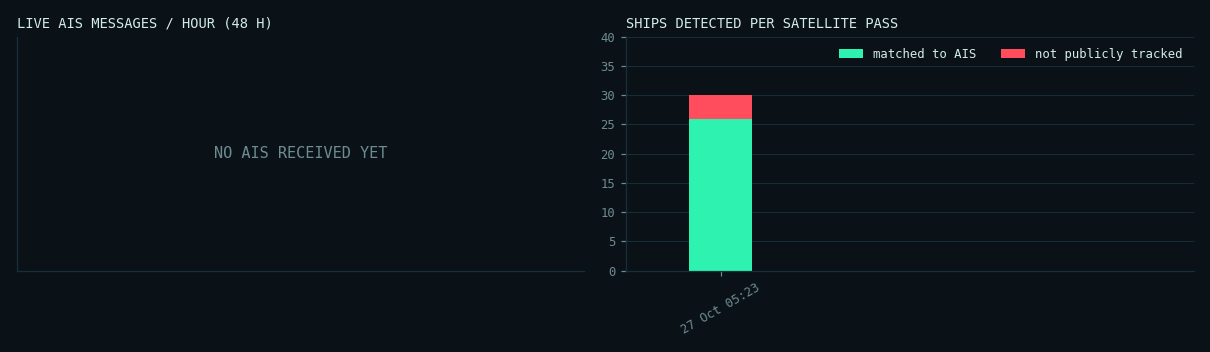
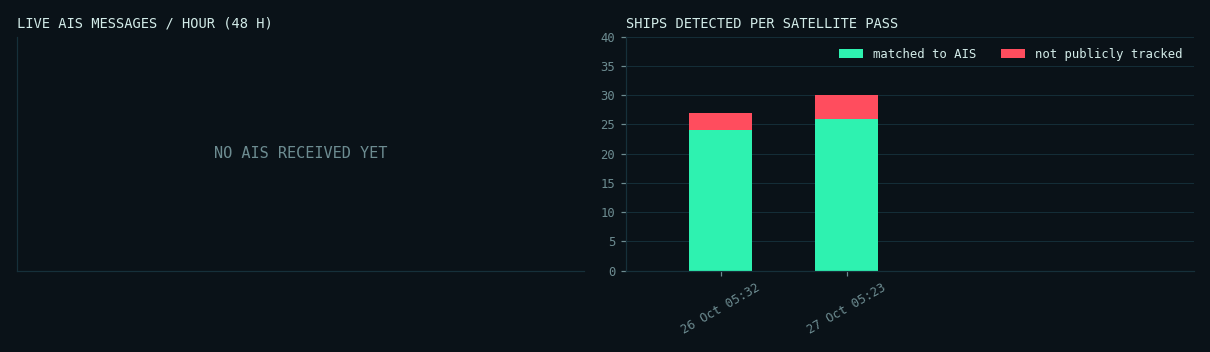
Second Oresund pass (26 Oct) and repeat-location check
24 ships matched, 3 candidates. Candidates recurring at the same spot on another pass are
tagged and downgraded, leaving one high-confidence candidate across both passes.

diff --git a/docs/denmark/index.html b/docs/denmark/index.html
@@ -82,7 +82,7 @@ footer{border-top:1px solid var(--line);padding:18px 0 28px;font:12px/1.6 var(--
   <div><div class="kicker">SAR &times; AIS &middot; MARITIME AWARENESS</div><div class="title">DARK VESSEL <b>DETECTION</b></div></div></a>
  <div class="status"><span class="pill"><span class="dot off"></span>AIS FEED <strong>OFFLINE</strong></span>
   <span class="pill">UTC <strong id="utc">--:--:--</strong></span>
-  <span class="pill">UPDATED <strong>02 Nov 06:25</strong></span></div>
+  <span class="pill">UPDATED <strong>02 Nov 06:29</strong></span></div>
 </div><nav class="tabs"><a class="" href="../index.html">OVERVIEW</a><a class="" href="../mumbai/index.html">MUMBAI</a><a class="on" href="../denmark/index.html">DENMARK</a><a class="" href="../demo/index.html">SIMULATION</a></nav></div></header>
 <main class="wrap"><div class="coords">SECTOR // DENMARK &middot; 55.55&ndash;55.85&deg;N &middot; 12.55&ndash;12.95&deg;E</div>
 <h1>Oresund, Copenhagen (Denmark/Sweden)</h1><p class="lede">Validation area. Sentinel-1 images it almost daily and coastal AIS coverage is dense, so the full match between radar and AIS can be shown and checked.</p>
@@ -96,7 +96,7 @@ footer{border-top:1px solid var(--line);padding:18px 0 28px;font:12px/1.6 var(--
 <div class="legend"><span><i style="background:var(--green)"></i>matched to AIS</span><span><i style="background:var(--red)"></i>not tracked &middot; high confidence</span>
 <span><i style="background:var(--amber)"></i>not tracked &middot; low confidence</span><span><i style="background:var(--cyan)"></i>live AIS position</span></div>
 <div id="map" class="map"></div><script>
-const D=[{"lon": 12.574560869565218, "lat": 55.849597826086956, "length_m": 72.681575622935, "score": 0.6554655519501138, "shore_km": 0.14150886088341372, "status": "matched", "reason": "", "confidence": "high", "crop": ""}, {"lon": 12.704759174311928, "lat": 55.82280412844037, "length_m": 364.1071436957287, "score": 0.9904753373251979, "shore_km": 9.407061429825474, "status": "matched", "reason": "", "confidence": "high", "crop": ""}, {"lon": 12.786416463414636, "lat": 55.804669512195126, "length_m": 155.0522474362954, "score": 0.9999646038759398, "shore_km": 4.658419014138412, "status": "matched", "reason": "", "confidence": "high", "crop": ""}, {"lon": 12.837327142857143, "lat": 55.82415, "length_m": 77.74504847444102, "score": 0.6039000555511767, "shore_km": 2.51529122748069, "status": "candidate", "reason": "", "confidence": "high", "crop": "crops/S1-Oresund-20261027_36.png"}, {"lon": 12.88229375, "lat": 55.849146875, "length_m": 53.38783327710226, "score": 0.9899546194309776, "shore_km": 0.9067240720863213, "status": "candidate", "reason": "", "confidence": "high", "crop": "crops/S1-Oresund-20261027_37.png"}, {"lon": 12.604004166666668, "lat": 55.75985, "length_m": 141.84238362073958, "score": 0.6867268898684522, "shore_km": 0.07168283192738693, "status": "matched", "reason": "", "confidence": "high", "crop": ""}, {"lon": 12.605736764705883, "lat": 55.75241323529412, "length_m": 122.11483240811877, "score": 0.9136889320646264, "shore_km": 0.6454382429486746, "status": "candidate", "reason": "", "confidence": "high", "crop": "crops/S1-Oresund-20261027_77.png"}, {"lon": 12.703722571428573, "lat": 55.77917742857143, "length_m": 223.0817648726515, "score": 0.9996320924909895, "shore_km": 5.943270442766068, "status": "matched", "reason": "", "confidence": "high", "crop": ""}, {"lon": 12.902757692307693, "lat": 55.75654230769231, "length_m": 65.46226537445588, "score": 0.7187896049600956, "shore_km": 0.03584141596369347, "status": "matched", "reason": "", "confidence": "high", "crop": ""}, {"lon": 12.589922222222222, "lat": 55.725764814814816, "length_m": 146.45480845096748, "score": 0.9957587025210503, "shore_km": 0.034771280891766385, "status": "matched", "reason": "", "confidence": "high", "crop": ""}, {"lon": 12.598472047244096, "lat": 55.72077913385827, "length_m": 207.62671185403417, "score": 0.609772230082722, "shore_km": 0.14016751439395445, "status": "matched", "reason": "", "confidence": "high", "crop": ""}, {"lon": 12.589218, "lat": 55.712854, "length_m": 90.49550243938293, "score": 0.6486089656085543, "shore_km": 0.043464101114707984, "status": "matched", "reason": "", "confidence": "high", "crop": ""}, {"lon": 12.59024090909091, "lat": 55.71147090909091, "length_m": 162.54265478639104, "score": 1.0, "shore_km": 0.06146752127277559, "status": "matched", "reason": "", "confidence": "high", "crop": ""}, {"lon": 12.597835937500001, "lat": 55.701648437500005, "length_m": 133.31776511703256, "score": 0.9396217092764791, "shore_km": 0.06789309632894441, "status": "matched", "reason": "", "confidence": "high", "crop": ""}, {"lon": 12.60914, "lat": 55.69712, "length_m": 65.36743236464424, "score": 0.7827588237578229, "shore_km": 0.03134240904220623, "status": "matched", "reason": "", "confidence": "high", "crop": ""}, {"lon": 12.668552272727274, "lat": 55.72007840909091, "length_m": 207.26605497726354, "score": 0.6251792307103263, "shore_km": 0.03584141596369347, "status": "matched", "reason": "", "confidence": "high", "crop": ""}, {"lon": 12.5996, "lat": 55.68885, "length_m": 40.00855981470757, "score": 0.7664068666153926, "shore_km": 0.024587008509110237, "status": "matched", "reason": "", "confidence": "high", "crop": ""}, {"lon": 12.595819230769232, "lat": 55.67989871794872, "length_m": 127.62371588738732, "score": 0.9426870407335851, "shore_km": 0.05068741655051085, "status": "matched", "reason": "", "confidence": "high", "crop": ""}, {"lon": 12.594722222222224, "lat": 55.67918888888889, "length_m": 40.64467714079742, "score": 0.7639524834029205, "shore_km": 0.043464101114707984, "status": "matched", "reason": "", "confidence": "high", "crop": ""}, {"lon": 12.610660714285714, "lat": 55.69618571428572, "length_m": 94.51225356515693, "score": 0.9621795096736379, "shore_km": 0.03134240904220623, "status": "matched", "reason": "", "confidence": "high", "crop": ""}, {"lon": 12.649045000000001, "lat": 55.692155, "length_m": 80.63364746000343, "score": 0.8515033668168979, "shore_km": 0.8863693295037299, "status": "matched", "reason": "", "confidence": "high", "crop": ""}, {"lon": 12.630751724137932, "lat": 55.685453448275865, "length_m": 125.00287123881988, "score": 0.93629426700422, "shore_km": 0.043464101114707984, "status": "matched", "reason": "", "confidence": "high", "crop": ""}, {"lon": 12.634987254901962, "lat": 55.677338235294116, "length_m": 276.5478352749318, "score": 0.7686103584091717, "shore_km": 0.024587008509110237, "status": "matched", "reason": "", "confidence": "high", "crop": ""}, {"lon": 12.68766150442478, "lat": 55.69581814159292, "length_m": 176.8074930452176, "score": 0.923202226335388, "shore_km": 2.6834920471942074, "status": "matched", "reason": "", "confidence": "high", "crop": ""}, {"lon": 12.67009054054054, "lat": 55.668979729729735, "length_m": 88.03011624734839, "score": 0.7436265062774421, "shore_km": 1.9785477550990147, "status": "candidate", "reason": "", "confidence": "high", "crop": "crops/S1-Oresund-20261027_250.png"}, {"lon": 12.65826847826087, "lat": 55.63610108695652, "length_m": 174.21377549767067, "score": 0.9833187000337672, "shore_km": 0.043464101114707984, "status": "matched", "reason": "", "confidence": "high", "crop": ""}, {"lon": 12.680683333333334, "lat": 55.610910000000004, "length_m": 74.22790892756812, "score": 0.6314184609397504, "shore_km": 0.03134240904220623, "status": "matched", "reason": "", "confidence": "high", "crop": ""}, {"lon": 12.868352132196163, "lat": 55.60022420042644, "length_m": 299.20726350177785, "score": 0.9999960398718075, "shore_km": 2.8169298200726325, "status": "matched", "reason": "", "confidence": "high", "crop": ""}, {"lon": 12.680875, "lat": 55.59323, "length_m": 95.51211981545671, "score": 0.7585723176580392, "shore_km": 0.03584141596369347, "status": "matched", "reason": "", "confidence": "high", "crop": ""}, {"lon": 12.706387741935485, "lat": 55.56306903225806, "length_m": 301.4640427512081, "score": 0.9999731380181186, "shore_km": 3.1965238712919084, "status": "matched", "reason": "", "confidence": "high", "crop": ""}],LIVE=[],B=[[55.55,12.55],[55.85,12.95]];const m=L.map('map',{zoomSnap:.25}).fitBounds(B);
+const D=[{"lon": 12.574560869565218, "lat": 55.849597826086956, "length_m": 72.681575622935, "score": 0.6554655519501138, "shore_km": 0.14150886088341372, "status": "matched", "reason": "", "confidence": "high", "crop": ""}, {"lon": 12.704759174311928, "lat": 55.82280412844037, "length_m": 364.1071436957287, "score": 0.9904753373251979, "shore_km": 9.407061429825474, "status": "matched", "reason": "", "confidence": "high", "crop": ""}, {"lon": 12.786416463414636, "lat": 55.804669512195126, "length_m": 155.0522474362954, "score": 0.9999646038759398, "shore_km": 4.658419014138412, "status": "matched", "reason": "", "confidence": "high", "crop": ""}, {"lon": 12.837327142857143, "lat": 55.82415, "length_m": 77.74504847444102, "score": 0.6039000555511767, "shore_km": 2.51529122748069, "status": "candidate", "reason": "same_spot_in_another_pass", "confidence": "low", "crop": "crops/S1-Oresund-20261027_36.png"}, {"lon": 12.88229375, "lat": 55.849146875, "length_m": 53.38783327710226, "score": 0.9899546194309776, "shore_km": 0.9067240720863213, "status": "candidate", "reason": "same_spot_in_another_pass", "confidence": "low", "crop": "crops/S1-Oresund-20261027_37.png"}, {"lon": 12.604004166666668, "lat": 55.75985, "length_m": 141.84238362073958, "score": 0.6867268898684522, "shore_km": 0.07168283192738693, "status": "matched", "reason": "", "confidence": "high", "crop": ""}, {"lon": 12.605736764705883, "lat": 55.75241323529412, "length_m": 122.11483240811877, "score": 0.9136889320646264, "shore_km": 0.6454382429486746, "status": "candidate", "reason": "same_spot_in_another_pass", "confidence": "low", "crop": "crops/S1-Oresund-20261027_77.png"}, {"lon": 12.703722571428573, "lat": 55.77917742857143, "length_m": 223.0817648726515, "score": 0.9996320924909895, "shore_km": 5.943270442766068, "status": "matched", "reason": "", "confidence": "high", "crop": ""}, {"lon": 12.902757692307693, "lat": 55.75654230769231, "length_m": 65.46226537445588, "score": 0.7187896049600956, "shore_km": 0.03584141596369347, "status": "matched", "reason": "", "confidence": "high", "crop": ""}, {"lon": 12.589922222222222, "lat": 55.725764814814816, "length_m": 146.45480845096748, "score": 0.9957587025210503, "shore_km": 0.034771280891766385, "status": "matched", "reason": "", "confidence": "high", "crop": ""}, {"lon": 12.598472047244096, "lat": 55.72077913385827, "length_m": 207.62671185403417, "score": 0.609772230082722, "shore_km": 0.14016751439395445, "status": "matched", "reason": "", "confidence": "high", "crop": ""}, {"lon": 12.589218, "lat": 55.712854, "length_m": 90.49550243938293, "score": 0.6486089656085543, "shore_km": 0.043464101114707984, "status": "matched", "reason": "", "confidence": "high", "crop": ""}, {"lon": 12.59024090909091, "lat": 55.71147090909091, "length_m": 162.54265478639104, "score": 1.0, "shore_km": 0.06146752127277559, "status": "matched", "reason": "", "confidence": "high", "crop": ""}, {"lon": 12.597835937500001, "lat": 55.701648437500005, "length_m": 133.31776511703256, "score": 0.9396217092764791, "shore_km": 0.06789309632894441, "status": "matched", "reason": "", "confidence": "high", "crop": ""}, {"lon": 12.60914, "lat": 55.69712, "length_m": 65.36743236464424, "score": 0.7827588237578229, "shore_km": 0.03134240904220623, "status": "matched", "reason": "", "confidence": "high", "crop": ""}, {"lon": 12.668552272727274, "lat": 55.72007840909091, "length_m": 207.26605497726354, "score": 0.6251792307103263, "shore_km": 0.03584141596369347, "status": "matched", "reason": "", "confidence": "high", "crop": ""}, {"lon": 12.5996, "lat": 55.68885, "length_m": 40.00855981470757, "score": 0.7664068666153926, "shore_km": 0.024587008509110237, "status": "matched", "reason": "", "confidence": "high", "crop": ""}, {"lon": 12.595819230769232, "lat": 55.67989871794872, "length_m": 127.62371588738732, "score": 0.9426870407335851, "shore_km": 0.05068741655051085, "status": "matched", "reason": "", "confidence": "high", "crop": ""}, {"lon": 12.594722222222224, "lat": 55.67918888888889, "length_m": 40.64467714079742, "score": 0.7639524834029205, "shore_km": 0.043464101114707984, "status": "matched", "reason": "", "confidence": "high", "crop": ""}, {"lon": 12.610660714285714, "lat": 55.69618571428572, "length_m": 94.51225356515693, "score": 0.9621795096736379, "shore_km": 0.03134240904220623, "status": "matched", "reason": "", "confidence": "high", "crop": ""}, {"lon": 12.649045000000001, "lat": 55.692155, "length_m": 80.63364746000343, "score": 0.8515033668168979, "shore_km": 0.8863693295037299, "status": "matched", "reason": "", "confidence": "high", "crop": ""}, {"lon": 12.630751724137932, "lat": 55.685453448275865, "length_m": 125.00287123881988, "score": 0.93629426700422, "shore_km": 0.043464101114707984, "status": "matched", "reason": "", "confidence": "high", "crop": ""}, {"lon": 12.634987254901962, "lat": 55.677338235294116, "length_m": 276.5478352749318, "score": 0.7686103584091717, "shore_km": 0.024587008509110237, "status": "matched", "reason": "", "confidence": "high", "crop": ""}, {"lon": 12.68766150442478, "lat": 55.69581814159292, "length_m": 176.8074930452176, "score": 0.923202226335388, "shore_km": 2.6834920471942074, "status": "matched", "reason": "", "confidence": "high", "crop": ""}, {"lon": 12.67009054054054, "lat": 55.668979729729735, "length_m": 88.03011624734839, "score": 0.7436265062774421, "shore_km": 1.9785477550990147, "status": "candidate", "reason": "", "confidence": "high", "crop": "crops/S1-Oresund-20261027_250.png"}, {"lon": 12.65826847826087, "lat": 55.63610108695652, "length_m": 174.21377549767067, "score": 0.9833187000337672, "shore_km": 0.043464101114707984, "status": "matched", "reason": "", "confidence": "high", "crop": ""}, {"lon": 12.680683333333334, "lat": 55.610910000000004, "length_m": 74.22790892756812, "score": 0.6314184609397504, "shore_km": 0.03134240904220623, "status": "matched", "reason": "", "confidence": "high", "crop": ""}, {"lon": 12.868352132196163, "lat": 55.60022420042644, "length_m": 299.20726350177785, "score": 0.9999960398718075, "shore_km": 2.8169298200726325, "status": "matched", "reason": "", "confidence": "high", "crop": ""}, {"lon": 12.680875, "lat": 55.59323, "length_m": 95.51211981545671, "score": 0.7585723176580392, "shore_km": 0.03584141596369347, "status": "matched", "reason": "", "confidence": "high", "crop": ""}, {"lon": 12.706387741935485, "lat": 55.56306903225806, "length_m": 301.4640427512081, "score": 0.9999731380181186, "shore_km": 3.1965238712919084, "status": "matched", "reason": "", "confidence": "high", "crop": ""}],LIVE=[],B=[[55.55,12.55],[55.85,12.95]];const m=L.map('map',{zoomSnap:.25}).fitBounds(B);
 // re-fit once layout has settled: if the container had no size when the map was created, Leaflet falls back to zoom 0
 const refit=()=>{m.invalidateSize();m.fitBounds(B);};setTimeout(refit,0);window.addEventListener('load',refit);
 // standard OSM tiles (no API key), turned into a dark "radar console" basemap with a CSS filter (.radar-tiles)
@@ -111,7 +111,7 @@ L.circleMarker([d.lat,d.lon],{radius:d.status=='matched'?4.5:7,color:c,fillColor
 LIVE.forEach(p=>L.circleMarker([p.lat,p.lon],{radius:3,color:'#4fc3ff',fillColor:'#4fc3ff',fillOpacity:.9,weight:1}).bindPopup('<b>LIVE AIS</b><br>'+p.sog+' kn &middot; '+p.age+' min ago').addTo(live));
 L.control.layers(null,{'Radar detections (selected pass)':det,'Live AIS, last 30 min':live},{collapsed:false}).addTo(m);
 </script>
-<h2>Pass log</h2><div class='tablewrap'><table><thead><tr><th>pass (UTC)</th><th>ships</th><th>matched</th><th>not tracked</th><th>low conf.</th><th>match rate</th><th>AIS msgs</th></tr></thead><tbody><tr><td>2026-10-27 05:23 UTC</td><td>30</td><td class='ok'>26</td><td class='bad'>4</td><td style='color:var(--amber)'>0</td><td>87%</td><td>10687</td></tr></tbody></table></div>
+<h2>Pass log</h2><div class='tablewrap'><table><thead><tr><th>pass (UTC)</th><th>ships</th><th>matched</th><th>not tracked</th><th>low conf.</th><th>match rate</th><th>AIS msgs</th></tr></thead><tbody><tr><td>2026-10-27 05:23 UTC</td><td>30</td><td class='ok'>26</td><td class='bad'>1</td><td style='color:var(--amber)'>3</td><td>87%</td><td>10687</td></tr><tr><td>2026-10-26 05:32 UTC</td><td>27</td><td class='ok'>24</td><td class='bad'>0</td><td style='color:var(--amber)'>3</td><td>89%</td><td>11603</td></tr></tbody></table></div>
 <h2>Telemetry</h2><img class="chart" src="charts.png" alt="AIS messages per hour and ships detected per pass">
 <p class="muted mono" style="font-size:12px">Feed gaps in the last 24 h: 1 (2 min) &middot; AIS messages in the last hour: 0</p>
 <h2>Recent Sentinel-1 acquisitions</h2><ul class="acq"><li>2026-11-01 16:44 UTC</li><li>2026-11-01 05:31 UTC</li><li>2026-10-31 16:52 UTC</li><li>2026-10-30 17:00 UTC</li><li>2026-10-27 05:23 UTC</li><li>2026-10-26 05:32 UTC</li><li>2026-10-25 16:52 UTC</li><li>2026-10-24 17:00 UTC</li></ul></main>

diff --git a/docs/index.html b/docs/index.html
@@ -82,14 +82,14 @@ footer{border-top:1px solid var(--line);padding:18px 0 28px;font:12px/1.6 var(--
   <div><div class="kicker">SAR &times; AIS &middot; MARITIME AWARENESS</div><div class="title">DARK VESSEL <b>DETECTION</b></div></div></a>
  <div class="status"><span class="pill"><span class="dot off"></span>AIS FEED <strong>OFFLINE</strong></span>
   <span class="pill">UTC <strong id="utc">--:--:--</strong></span>
-  <span class="pill">UPDATED <strong>02 Nov 06:25</strong></span></div>
+  <span class="pill">UPDATED <strong>02 Nov 06:29</strong></span></div>
 </div><nav class="tabs"><a class="on" href="index.html">OVERVIEW</a><a class="" href="mumbai/index.html">MUMBAI</a><a class="" href="denmark/index.html">DENMARK</a><a class="" href="demo/index.html">SIMULATION</a></nav></div></header>
 <main class="wrap"><div class="coords">SYSTEM OVERVIEW</div>
 <h1>Ships the radar sees that nobody is tracking</h1>
 <p class="lede">Radar satellites see ships whether or not they announce themselves. AIS is what ships broadcast about themselves.
 This system compares the two after every Sentinel-1 pass and lists the ships that appear on radar with no matching AIS signal.</p>
-<div class="grid" style="margin-top:18px"><div class="panel"><div class="label">Satellite passes processed</div><div class="value ">2</div></div><div class="panel"><div class="label">Ships matched to AIS</div><div class="value ">26</div></div>
-<div class="panel"><div class="label">Not publicly tracked</div><div class="value red">157</div></div><div class="panel"><div class="label">Broadcasting now &middot; 30 min</div><div class="value cyan">0</div></div></div>
+<div class="grid" style="margin-top:18px"><div class="panel"><div class="label">Satellite passes processed</div><div class="value ">3</div></div><div class="panel"><div class="label">Ships matched to AIS</div><div class="value ">50</div></div>
+<div class="panel"><div class="label">Not publicly tracked</div><div class="value red">160</div></div><div class="panel"><div class="label">Broadcasting now &middot; 30 min</div><div class="value cyan">0</div></div></div>
 <h2>Pipeline</h2><div class="flow"><div class="step"><div class="n">01</div><div class="t">Radar image</div><div class="d">Sentinel-1 sees every large ship, day or night, through cloud.</div></div><div class="step"><div class="n">02</div><div class="t">Detect</div><div class="d">CFAR finds bright targets on dark sea; land, bridges and buoys are masked.</div></div><div class="step"><div class="n">03</div><div class="t">Align AIS</div><div class="d">Each ship's last AIS report is moved along its course to the exact image time.</div></div><div class="step"><div class="n">04</div><div class="t">Match</div><div class="d">The Hungarian algorithm pairs radar targets with AIS ships within a speed-aware radius.</div></div><div class="step"><div class="n">05</div><div class="t">Flag</div><div class="d">Unmatched targets become candidates, with an honest confidence label.</div></div></div>
 <h2>Sectors</h2><div class="grid"><a class="panel region" href="mumbai/index.html"><div class="label">Sector // MUMBAI</div>
 <div class="rt">Mumbai coast and harbour, India</div>
@@ -99,9 +99,9 @@ This system compares the two after every Sentinel-1 pass and lists the ships tha
 <div class="kv"><span>broadcasting now (30 min)</span><span style="color:var(--cyan)">0</span></div>
 <div class="go">OPEN SECTOR &rarr;</div></a><a class="panel region" href="denmark/index.html"><div class="label">Sector // DENMARK</div>
 <div class="rt">Oresund, Copenhagen (Denmark/Sweden)</div>
-<div class="kv"><span>passes processed</span><span>1</span></div>
-<div class="kv"><span>ships matched to AIS</span><span class="ok">26</span></div>
-<div class="kv"><span>not publicly tracked</span><span class="bad">4</span></div>
+<div class="kv"><span>passes processed</span><span>2</span></div>
+<div class="kv"><span>ships matched to AIS</span><span class="ok">50</span></div>
+<div class="kv"><span>not publicly tracked</span><span class="bad">7</span></div>
 <div class="kv"><span>broadcasting now (30 min)</span><span style="color:var(--cyan)">0</span></div>
 <div class="go">OPEN SECTOR &rarr;</div></a></div>
 <h2>Read before trusting a flag</h2>
@@ -109,7 +109,7 @@ This system compares the two after every Sentinel-1 pass and lists the ships tha
 receivers with limited range, and ships under about 40 m are not reliably visible to the satellite. Low-confidence flags are the ones the
 data cannot support: beyond receiver range, during an AIS feed gap, or with no AIS recorded.</div>
 <h2>Automatic runs</h2><p class="muted mono" style="font-size:12.5px;margin-top:-4px">Rebuilt on a schedule from the live AIS recording. Newest first.</p>
-<div class="tablewrap"><table><thead><tr><th>run (UTC)</th><th>mumbai live</th><th>mumbai msg/h</th><th>denmark live</th><th>denmark msg/h</th></tr></thead><tbody><tr><td>2026-11-02 06:25</td><td>0</td><td>0</td><td>0</td><td>0</td></tr><tr><td>2026-11-02 06:20</td><td>0</td><td>0</td><td>0</td><td>0</td></tr><tr><td>2026-11-02 06:10</td><td>0</td><td>0</td><td>0</td><td>0</td></tr><tr><td>2026-11-02 05:55</td><td>0</td><td>0</td><td>36</td><td>341</td></tr><tr><td>2026-11-02 05:40</td><td>0</td><td>0</td><td>38</td><td>353</td></tr><tr><td>2026-11-02 05:24</td><td>0</td><td>0</td><td>35</td><td>311</td></tr><tr><td>2026-11-02 05:09</td><td>0</td><td>0</td><td>36</td><td>222</td></tr><tr><td>2026-11-02 04:54</td><td>0</td><td>0</td><td>36</td><td>144</td></tr><tr><td>2026-11-02 04:50</td><td>0</td><td>0</td><td>33</td><td>110</td></tr><tr><td>2026-11-02 04:49</td><td>0</td><td>0</td><td>33</td><td>110</td></tr><tr><td>2026-11-02 04:49</td><td>0</td><td>0</td><td>32</td><td>108</td></tr><tr><td>2026-11-02 04:48</td><td>0</td><td>0</td><td>32</td><td>106</td></tr><tr><td>2026-11-02 04:47</td><td>0</td><td>0</td><td>32</td><td>104</td></tr><tr><td>2026-11-02 04:47</td><td>0</td><td>0</td><td>32</td><td>98</td></tr><tr><td>2026-11-02 04:27</td><td>0</td><td>0</td><td>6</td><td>6</td></tr><tr><td>2026-11-02 04:26</td><td>0</td><td>0</td><td>4</td><td>4</td></tr></tbody></table></div></main>
+<div class="tablewrap"><table><thead><tr><th>run (UTC)</th><th>mumbai live</th><th>mumbai msg/h</th><th>denmark live</th><th>denmark msg/h</th></tr></thead><tbody><tr><td>2026-11-02 06:29</td><td>0</td><td>0</td><td>0</td><td>0</td></tr><tr><td>2026-11-02 06:25</td><td>0</td><td>0</td><td>0</td><td>0</td></tr><tr><td>2026-11-02 06:20</td><td>0</td><td>0</td><td>0</td><td>0</td></tr><tr><td>2026-11-02 06:10</td><td>0</td><td>0</td><td>0</td><td>0</td></tr><tr><td>2026-11-02 05:55</td><td>0</td><td>0</td><td>36</td><td>341</td></tr><tr><td>2026-11-02 05:40</td><td>0</td><td>0</td><td>38</td><td>353</td></tr><tr><td>2026-11-02 05:24</td><td>0</td><td>0</td><td>35</td><td>311</td></tr><tr><td>2026-11-02 05:09</td><td>0</td><td>0</td><td>36</td><td>222</td></tr><tr><td>2026-11-02 04:54</td><td>0</td><td>0</td><td>36</td><td>144</td></tr><tr><td>2026-11-02 04:50</td><td>0</td><td>0</td><td>33</td><td>110</td></tr><tr><td>2026-11-02 04:49</td><td>0</td><td>0</td><td>33</td><td>110</td></tr><tr><td>2026-11-02 04:49</td><td>0</td><td>0</td><td>32</td><td>108</td></tr><tr><td>2026-11-02 04:48</td><td>0</td><td>0</td><td>32</td><td>106</td></tr><tr><td>2026-11-02 04:47</td><td>0</td><td>0</td><td>32</td><td>104</td></tr><tr><td>2026-11-02 04:47</td><td>0</td><td>0</td><td>32</td><td>98</td></tr><tr><td>2026-11-02 04:27</td><td>0</td><td>0</td><td>6</td><td>6</td></tr><tr><td>2026-11-02 04:26</td><td>0</td><td>0</td><td>4</td><td>4</td></tr></tbody></table></div></main>
 <footer><div class="wrap">Data: Copernicus Sentinel-1 (ESA) &middot; AIS via aisstream.io and the Danish Maritime Authority &middot;
 coastlines, structures and basemap &copy; OpenStreetMap contributors. Flags are candidates for review, not accusations.</div></footer>
 <script>(function(){const e=document.getElementById('utc');const t=()=>e.textContent=new Date().toISOString().slice(11,19);t();setInterval(t,1000);})();</script>

diff --git a/docs/mumbai/index.html b/docs/mumbai/index.html
@@ -82,7 +82,7 @@ footer{border-top:1px solid var(--line);padding:18px 0 28px;font:12px/1.6 var(--
   <div><div class="kicker">SAR &times; AIS &middot; MARITIME AWARENESS</div><div class="title">DARK VESSEL <b>DETECTION</b></div></div></a>
  <div class="status"><span class="pill"><span class="dot off"></span>AIS FEED <strong>OFFLINE</strong></span>
   <span class="pill">UTC <strong id="utc">--:--:--</strong></span>
-  <span class="pill">UPDATED <strong>02 Nov 06:25</strong></span></div>
+  <span class="pill">UPDATED <strong>02 Nov 06:29</strong></span></div>
 </div><nav class="tabs"><a class="" href="../index.html">OVERVIEW</a><a class="on" href="../mumbai/index.html">MUMBAI</a><a class="" href="../denmark/index.html">DENMARK</a><a class="" href="../demo/index.html">SIMULATION</a></nav></div></header>
 <main class="wrap"><div class="coords">SECTOR // MUMBAI &middot; 18.80&ndash;19.10&deg;N &middot; 72.55&ndash;72.95&deg;E</div>
 <h1>Mumbai coast and harbour, India</h1><p class="lede">The project's target area. Sentinel-1 images it about once every 12 days, and free AIS comes only from coastal receivers, so many unmatched ships here are simply out of receiver range.</p>

diff --git a/docs/demo/index.html b/docs/demo/index.html
@@ -82,7 +82,7 @@ footer{border-top:1px solid var(--line);padding:18px 0 28px;font:12px/1.6 var(--
   <div><div class="kicker">SAR &times; AIS &middot; MARITIME AWARENESS</div><div class="title">DARK VESSEL <b>DETECTION</b></div></div></a>
  <div class="status"><span class="pill"><span class="dot off"></span>AIS FEED <strong>OFFLINE</strong></span>
   <span class="pill">UTC <strong id="utc">--:--:--</strong></span>
-  <span class="pill">UPDATED <strong>02 Nov 06:25</strong></span></div>
+  <span class="pill">UPDATED <strong>02 Nov 06:29</strong></span></div>
 </div><nav class="tabs"><a class="" href="../index.html">OVERVIEW</a><a class="" href="../mumbai/index.html">MUMBAI</a><a class="" href="../denmark/index.html">DENMARK</a><a class="on" href="../demo/index.html">SIMULATION</a></nav></div></header>
 <main class="wrap"><div class="coords">SIMULATION // SYNTHETIC SCENES WITH KNOWN GROUND TRUTH</div>
 <h1>Simulation: the whole pipeline with a known answer</h1>

diff --git a/dvd/pipeline.py b/dvd/pipeline.py
@@ -11,6 +11,7 @@ from scipy import ndimage
 from . import config as C
 from . import store
 from .detect import detect_scene
+from .geo import haversine_m
 from .infra import Structures
 from .match import match, project_ais
 
@@ -51,6 +52,17 @@ def run_pass(scene, store_con, pass_id: str, out_dir: str | None = None, detecto
     pairs = {int(eligible[k]): v for k, v in sub_pairs.items()}
     near_struct = structures.near(det["lon"].values, det["lat"].values) if len(det) else []
 
+    # candidates from other passes in this database: a target that recurs at the same spot is probably fixed
+    try:
+        others = pd.read_sql("SELECT lon, lat FROM detections WHERE status='candidate' AND pass_id != ? "
+                             "AND lon BETWEEN ? AND ? AND lat BETWEEN ? AND ?", store_con,
+                             params=(pass_id, bbox[0], bbox[2], bbox[1], bbox[3]))
+    except Exception:
+        others = pd.DataFrame(columns=["lon", "lat"])
+
+    def recurring(lon, lat) -> bool:
+        return len(others) > 0 and bool((haversine_m(lon, lat, others.lon.values, others.lat.values) < C.REPEAT_RADIUS_M).any())
+
     status, reason, conf = [], [], []
     for i, d in det.iterrows():
         # A ship that matches AIS is a ship, even beside a pier or bridge: the structure and shore filters only exist
@@ -76,6 +88,8 @@ def run_pass(scene, store_con, pass_id: str, out_dir: str | None = None, detecto
                 reasons.append("ais_feed_gap")
             if proj.empty:
                 reasons.append("no_ais_in_window")
+            if recurring(d.lon, d.lat):
+                reasons.append("same_spot_in_another_pass")
             s, r, c = "candidate", ",".join(reasons), "low" if reasons else "high"
         status.append(s); reason.append(r); conf.append(c)
     det["status"], det["reason"], det["confidence"] = status, reason, conf

diff --git a/tests/test_core.py b/tests/test_core.py
@@ -121,6 +121,17 @@ def test_matched_ship_beside_structure_is_not_filtered(tmp_path):
     assert (at.status == "matched").sum() == 1
 
 
+def test_candidate_at_same_spot_in_another_pass_is_downgraded(tmp_path):
+    sc = make_scene(11, n_ships=20)
+    con = store.connect(str(tmp_path / "r.sqlite"))
+    store.add_ais(con, make_ais(sc, 11))
+    _, first = run_pass(sc, con, "pass-1")
+    assert (first[first.status == "candidate"].confidence == "high").any()
+    _, second = run_pass(sc, con, "pass-2")              # same targets seen again on another pass
+    cand = second[second.status == "candidate"]
+    assert len(cand) and cand.reason.str.contains("same_spot_in_another_pass").all() and (cand.confidence == "low").all()
+
+
 def test_parse_position_report():
     raw = json.dumps({"MessageType": "PositionReport", "MetaData": {"MMSI": 123, "time_utc": "2026-10-04 10:00:00.123 +0000 UTC"},
                       "Message": {"PositionReport": {"Latitude": 19.0, "Longitude": 72.6, "Sog": 8.2, "Cog": 45.0}}})

diff --git a/dvd/config.py b/dvd/config.py
@@ -31,6 +31,9 @@ LAND_BUFFER_PX = 3
 MIN_SCORE = 0.60
 MIN_LENGTH_M = 40.0        # smaller ships are not reliably visible; stated limit of the system
 MIN_SHORE_KM = 0.5
+# An untracked target in the same place on another pass is probably fixed (unmapped structure, mooring, permanently
+# anchored hulk), not a ship going dark. Radius allows for geolocation error between passes (~150 m) plus swinging.
+REPEAT_RADIUS_M = 600.0
 
 # Matching
 MATCH_WINDOW_S = 1800      # use AIS within +/- 30 min of the image time

diff --git a/README.md b/README.md
@@ -71,6 +71,12 @@ within 0.9 km at image time; all four are compact targets on open water). Lesson
 - 29 broadcasting ships (mostly small harbour craft) gave detections below the score threshold: the detector's real limit.
 - Offshore wind turbines (Middelgrunden) are now pulled from OpenStreetMap with the other fixed structures.
 
+Second pass, 26 Oct 2026 05:32 UTC: 88 ships broadcasting inside the area, 75 (85%) with a radar detection within 300 m;
+**24 matched, 3 candidates**. All three were within ~400 m of 27 Oct candidates: an untracked target at the same spot on
+consecutive days is almost certainly fixed (unmapped structure, mooring, anchored hulk). Such candidates are now tagged
+`same_spot_in_another_pass` and downgraded to low confidence (`REPEAT_RADIUS_M`). Across both passes this leaves **one
+high-confidence candidate** (27 Oct, 55.669 N 12.670 E) out of 50 matched ships.
+
 ## Recording AIS for a pass
 
 aisstream has no history, so AIS must be recorded *while* the satellite passes.
